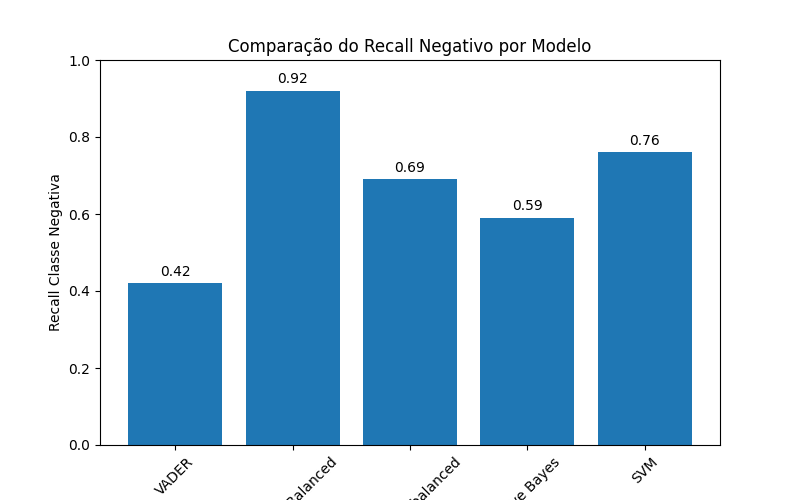
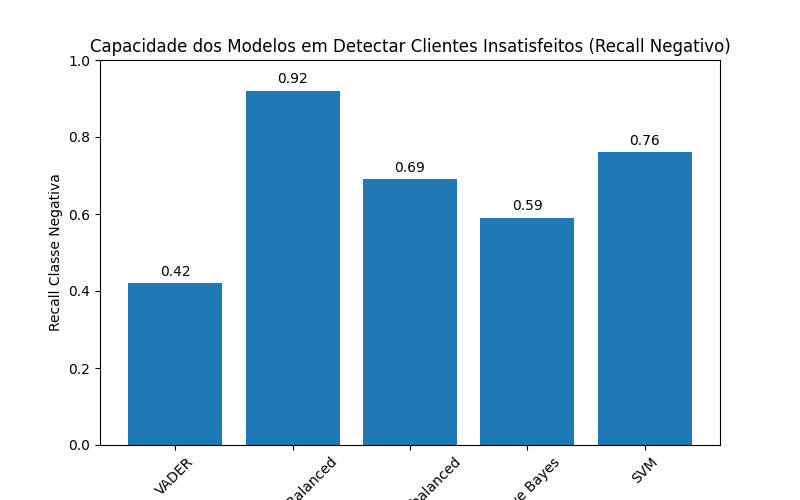
comparação modelos

Changed region(s): [[0.125, 0.06, 0.9062, 0.12]]

diff --git a/analysis/analysis.py b/analysis/analysis.py
@@ -357,40 +357,6 @@ y_pred = svm.predict(X_test_tfidf)
 # avaliar o modelo SVM
 
 print(classification_report(y_test, y_pred))
-# %%
-
-# visualizando e comparando o valor do recall dos modelos
-
-recall_neg = {
-    'VADER': 0.42,
-    'Logistic Balanced': 0.92,
-    'Logistic Unbalanced': 0.69,  
-    'Naive Bayes': 0.59,
-    'SVM': 0.76
-}
-
-# %%
-
-# nomes dos modelos
-modelos = list(recall_neg.keys())
-
-# valores de recall
-valores = list(recall_neg.values())
-# %%
-
-plt.figure(figsize=(8,5))
-plt.bar(modelos, valores)
-plt.ylim(0, 1)
-plt.ylabel('Recall Classe Negativa')
-plt.title('Comparação do Recall Negativo por Modelo')
-plt.xticks(rotation=45)
-
-for i, v in enumerate(valores):
-    plt.text(i, v + 0.02, f"{v:.2f}", ha='center')
-
-plt.savefig('../img/comparacao_recall_modelos.png')
-
-plt.show()
 
 # %%
 
@@ -420,3 +386,44 @@ print(accuracy_score(df['Sentiment'], df['bert_sentiment']))
 # Em cenários onde é crítico não perder clientes insatisfeitos, o uso de modelos baseados em transformers é recomendado
 # Entretanto, para operações que exigem maior eficiência e menor volume de alertas falsos, 
 # modelos como Logistic Regression podem oferecer melhor equilíbrio
+
+# %%
+
+# visualizando e comparando o valor do recall dos modelos
+
+recall_neg = {
+    'VADER': 0.42,
+    'Logistic Balanced': 0.92,
+    'Logistic Unbalanced': 0.69,  
+    'Naive Bayes': 0.59,
+    'SVM': 0.76,
+    'BERT': 0.93
+}
+# %%
+
+# nomes dos modelos
+modelos = list(recall_neg.keys())
+
+# valores de recall
+valores = list(recall_neg.values())
+# %%
+
+plt.figure(figsize=(8,5))
+plt.bar(modelos, valores)
+plt.ylim(0, 1)
+plt.ylabel('Recall Classe Negativa')
+plt.title('Capacidade dos Modelos em Detectar Clientes Insatisfeitos (Recall Negativo)')
+plt.xticks(rotation=45)
+
+for i, v in enumerate(valores):
+    plt.text(i, v + 0.02, f"{v:.2f}", ha='center')
+
+plt.savefig('../img/comparacao_recall_modelos.png')
+
+plt.show()
+# %%
+
+#Conclusão da comparação:
+#Para o objetivo da HospedaAI, a Regressão Logística Balanceada continua sendo a melhor escolha,
+# mesmo recall que o BERT, mas com precision muito superior. 
+# Além de ter sido treinada nos próprios dados do problema.
